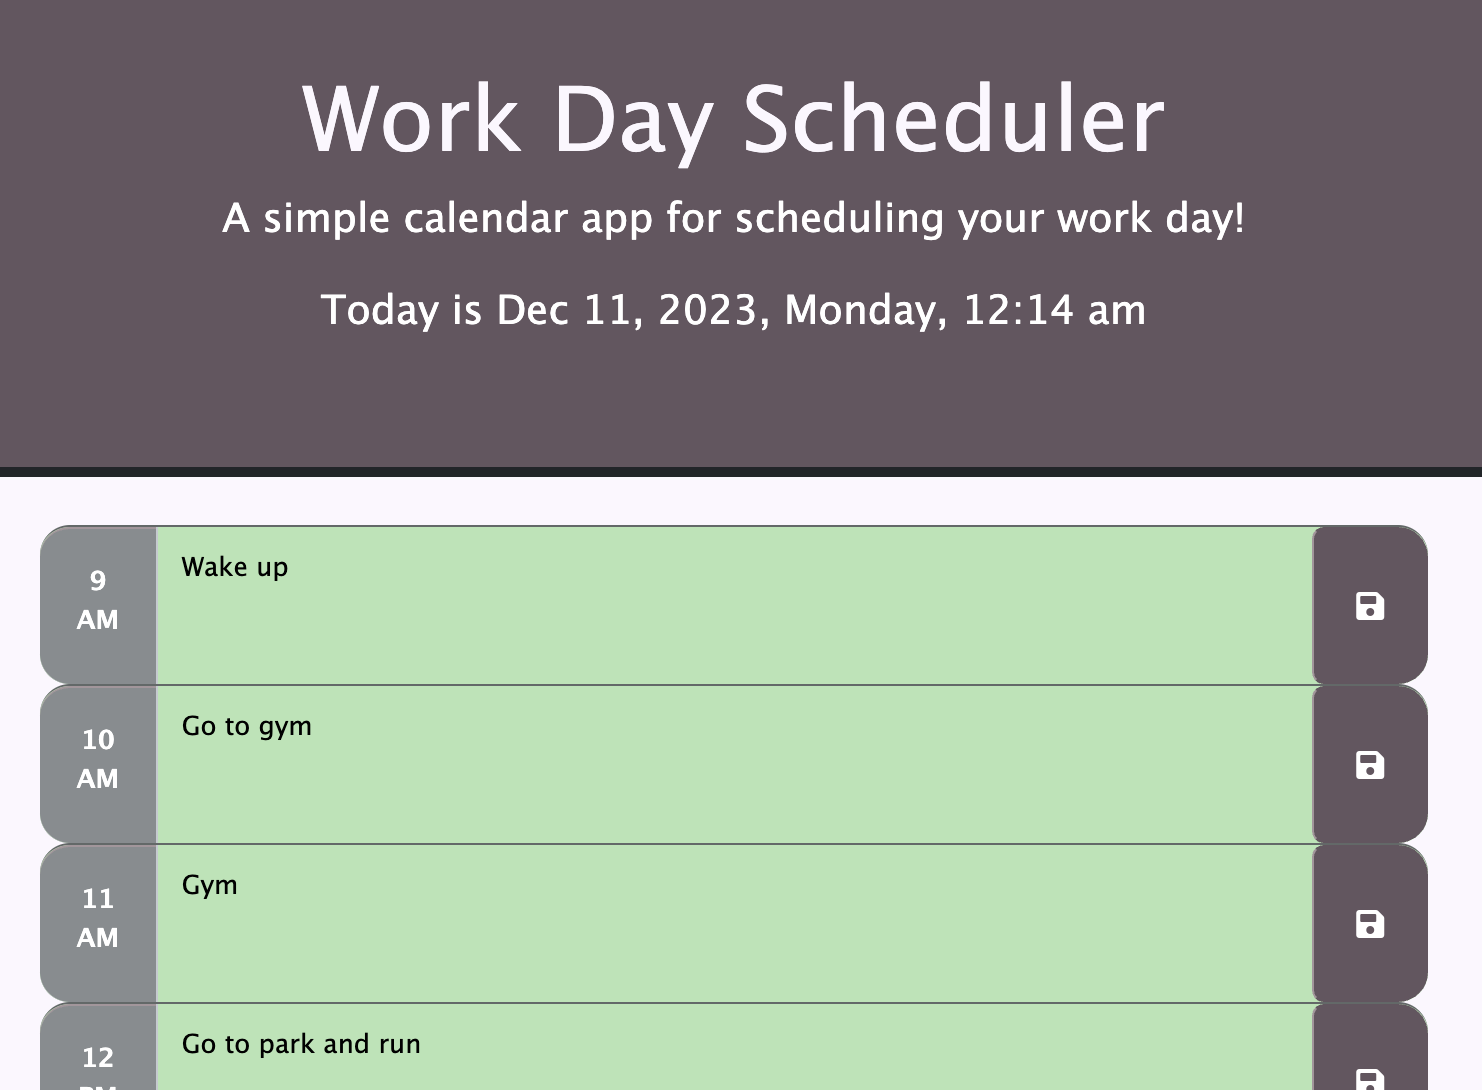
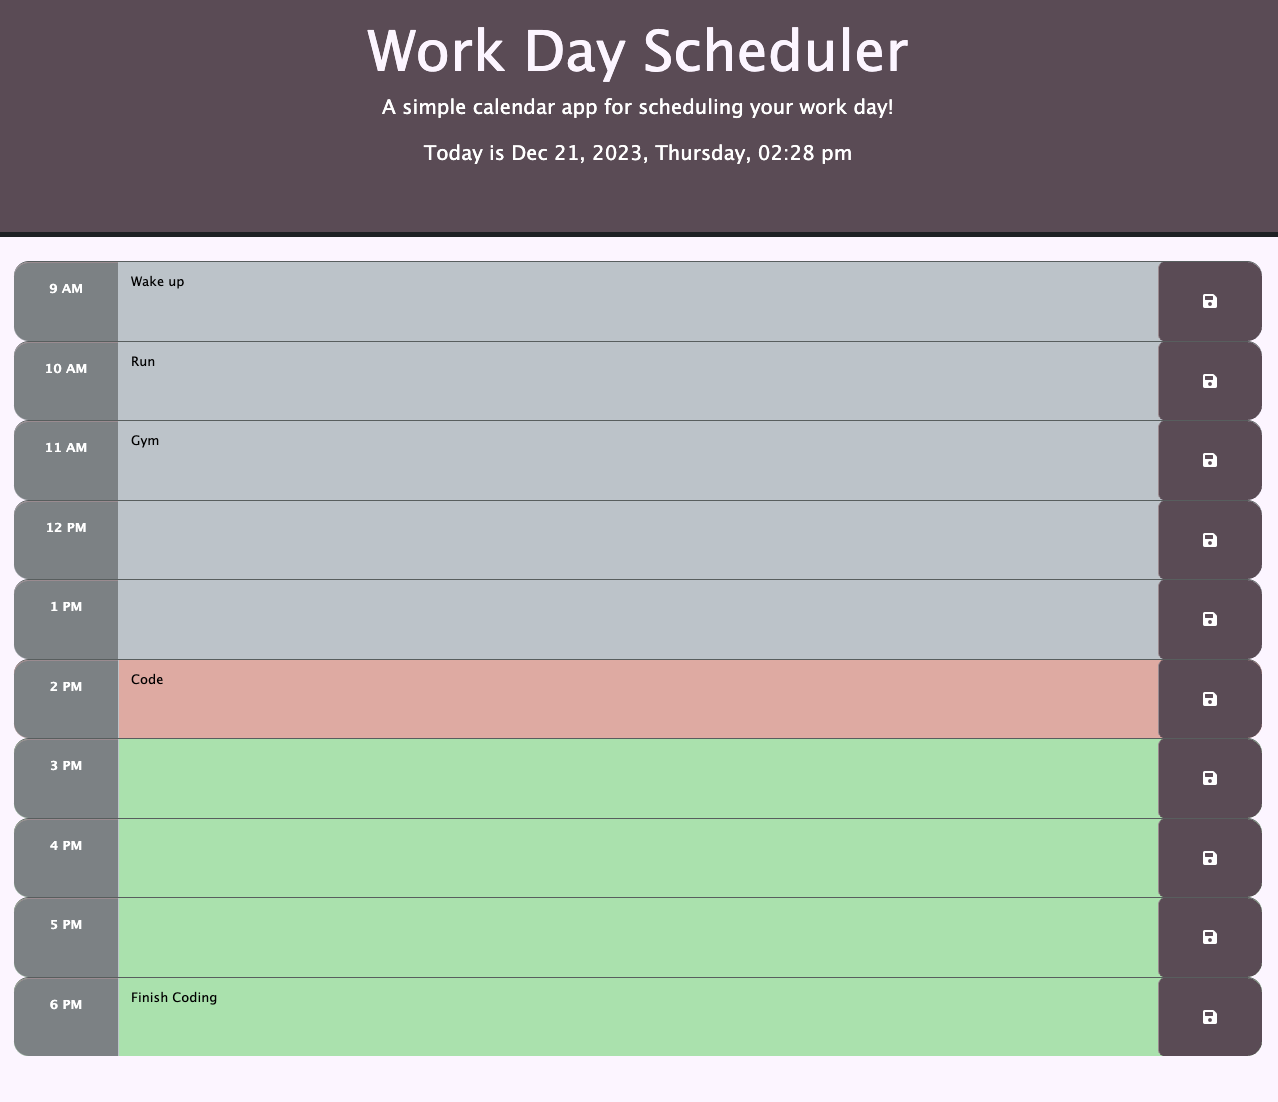
update readme

diff --git a/README.md b/README.md
@@ -41,7 +41,7 @@ The following image displays the application homepage (currently all events have
 
 ![A user clicks on slots on the color-coded calendar and edits the events.](./Assets/Images/Home.png)
 
-This is when you have future events: 
+This is when you have past, present, and future events: 
 
 ![A user clicks on slots on the color-coded calendar and edits the events.](./Assets/Images/Home2.png)
 
